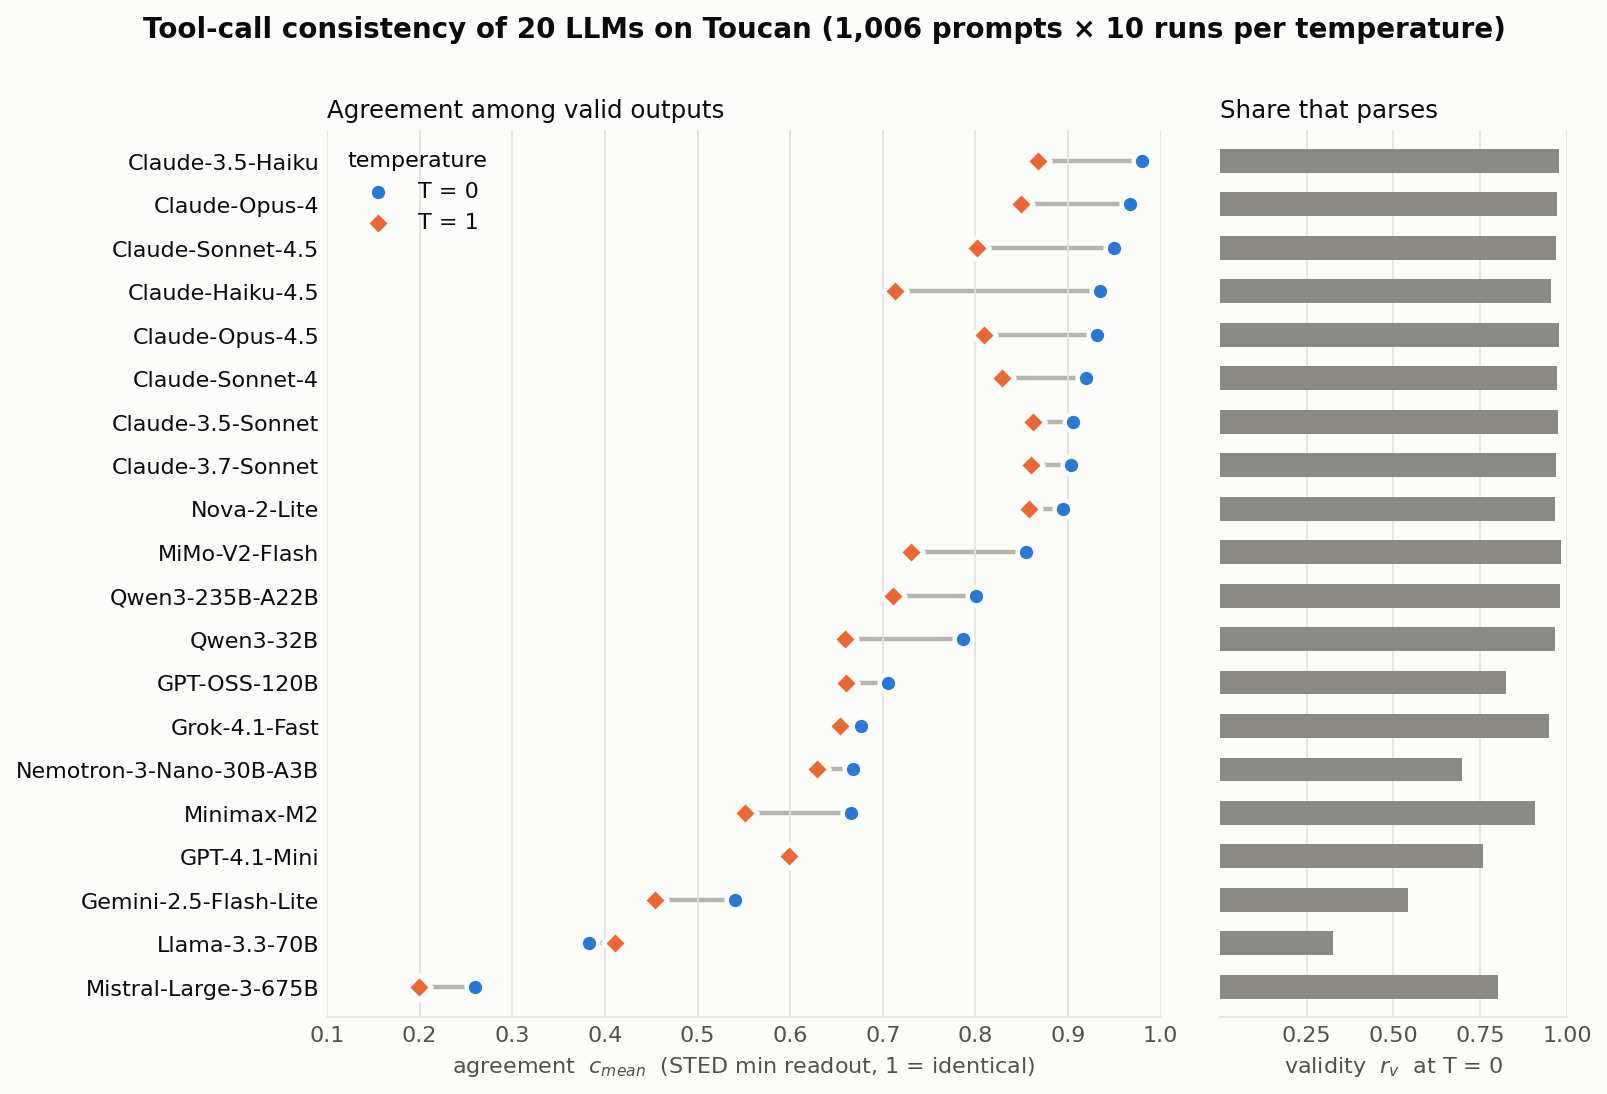
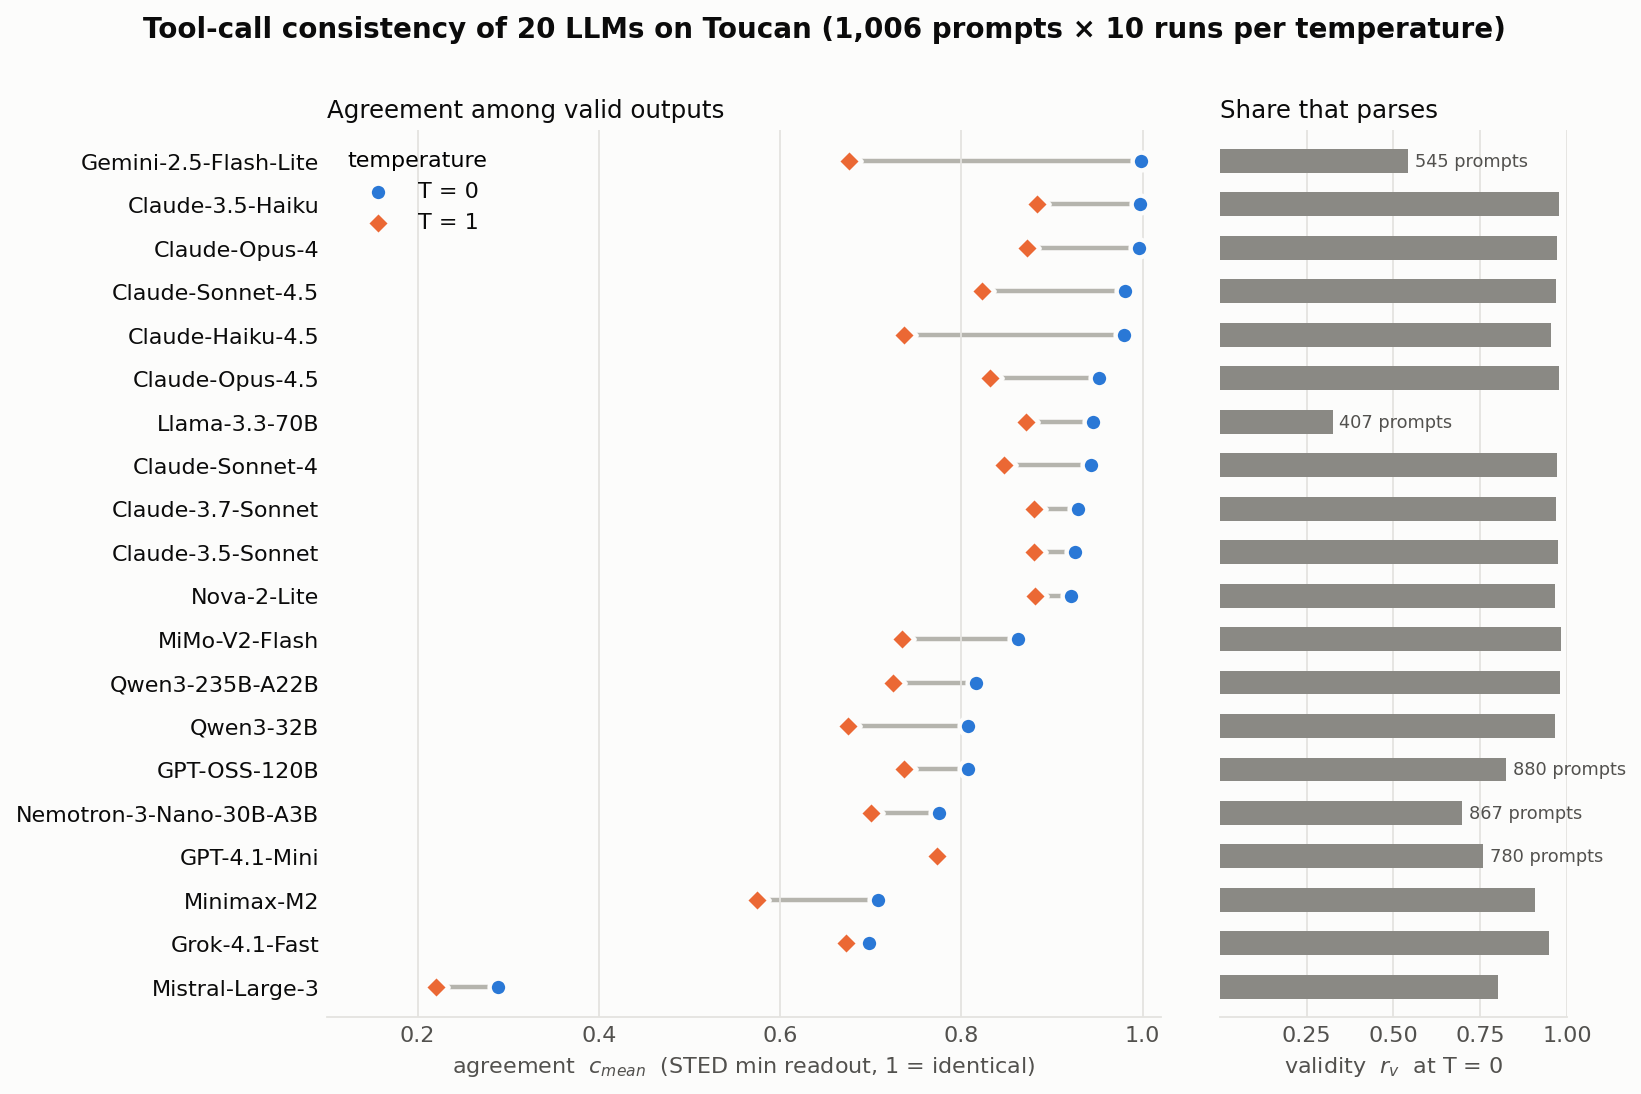
README benchmark: report agreement among valid outputs only
The 20-model figure and its bullets counted prompts with fewer than two valid
outputs as agreement 0, although the text said agreement is computed among valid
outputs. That mixed validity into agreement (e.g. Llama-3.3-70B 0.38 instead of
0.95 at T=0) and reversed one temperature trend. Figure and numbers now use the
valid-only mean, with the number of contributing prompts shown where validity is
low, and a correction note.

diff --git a/README.md b/README.md
@@ -567,15 +567,24 @@ See [STED Complexity Analysis](./docs/api/sted_complexity_analysis.md) for detai
 
 **20 LLMs** on Toucan tool calling: 1,006 prompts, 10 generations per prompt at each of
 11 temperatures (0.0–1.0), scored with STED's min readout (`profile="typed"`).
-Agreement $c_{mean}$ is the mean pairwise STED among a prompt's *valid* outputs; validity
-$r_v$ is the share of outputs that parse. They are reported separately.
+Agreement $c_{mean}$ is the mean pairwise STED among a prompt's *valid* outputs, averaged
+over the prompts with at least two valid outputs (prompts with fewer are left out, not
+scored 0; the right panel gives their count where validity is low). Validity $r_v$ is the
+share of outputs that parse. They are reported separately.
 
-- **No model is fully consistent at T = 0.** Agreement ranges from 0.26 (Mistral-Large-3)
-  to 0.98 (Claude-3.5-Haiku).
-- **Temperature effects are model-specific.** Claude-Haiku-4.5 drops from 0.94 to 0.71
-  between T = 0 and T = 1; GPT-4.1-Mini is unchanged (0.60); Llama-3.3-70B rises slightly.
-- **Validity and agreement are different axes.** Llama-3.3-70B parses only 33% of the
-  time; Grok-4.1-Fast parses 95% but agrees at 0.68.
+- **No model is fully consistent at T = 0.** Among models that parse in at least 95% of
+  runs, agreement ranges from 0.81 (Qwen3-32B) to 0.998 (Claude-3.5-Haiku); Mistral-Large-3
+  is lowest overall (0.29).
+- **Temperature lowers agreement, by a model-specific amount.** Claude-Haiku-4.5 drops from
+  0.98 to 0.74 between T = 0 and T = 1, Llama-3.3-70B from 0.95 to 0.87; GPT-4.1-Mini is
+  unchanged (0.77).
+- **Validity and agreement are different axes.** Llama-3.3-70B parses only 32% of the time
+  but agrees at 0.95 when it does; Gemini-2.5-Flash-Lite parses 54% and agrees at 0.999;
+  Grok-4.1-Fast parses 95% but agrees at 0.70. Scoring prompts without two valid outputs as
+  0 would mix the two (Llama-3.3-70B would drop to 0.38).
+
+*Correction (November 2026): an earlier version of this section and figure counted prompts
+with fewer than two valid outputs as agreement 0, which mixed validity into agreement.*
 
 The model list, how the outputs were generated, and the earlier benchmark in the
 NeurIPS 2025 workshop paper are in [docs/research](docs/research/README.md).
